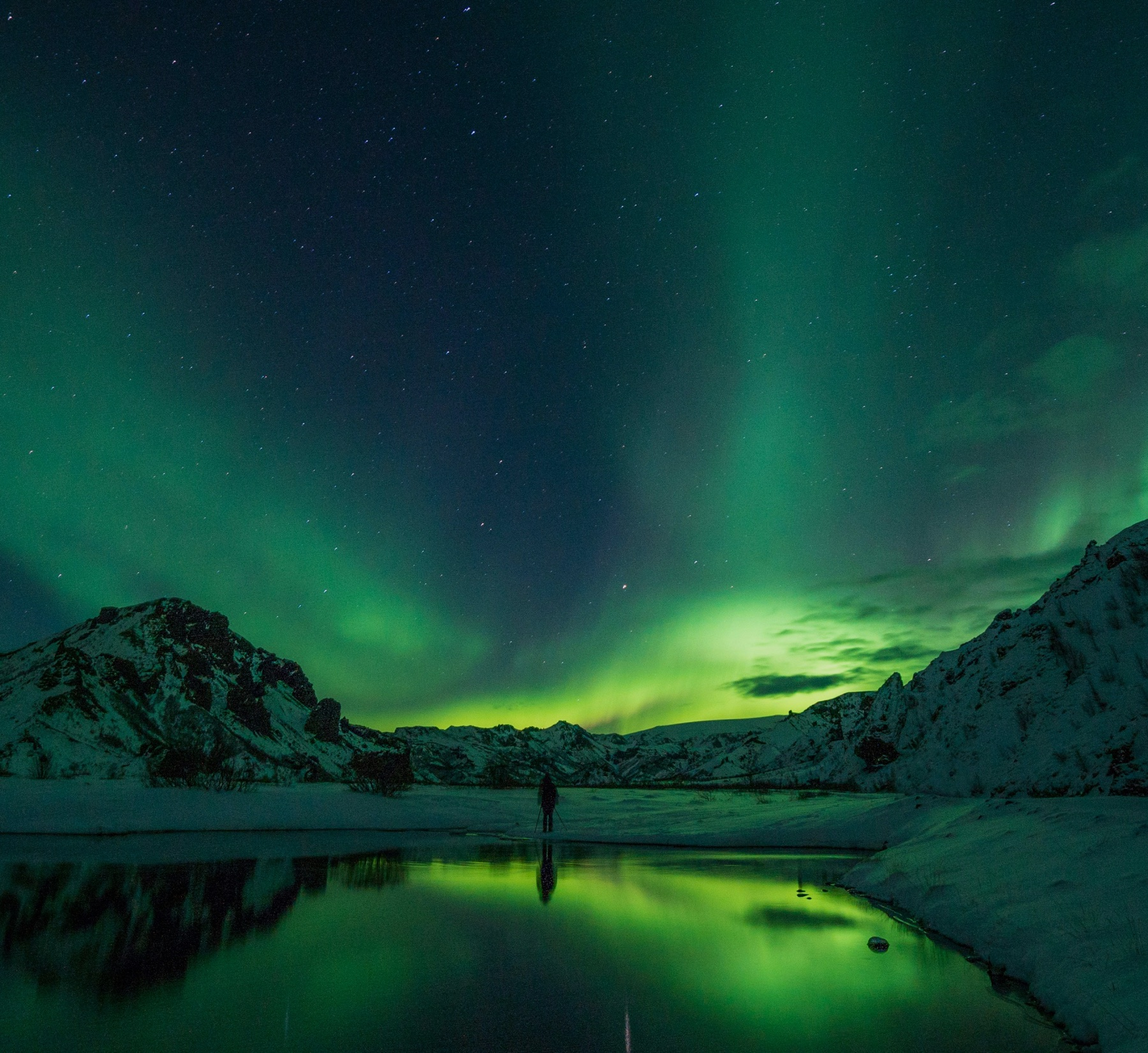
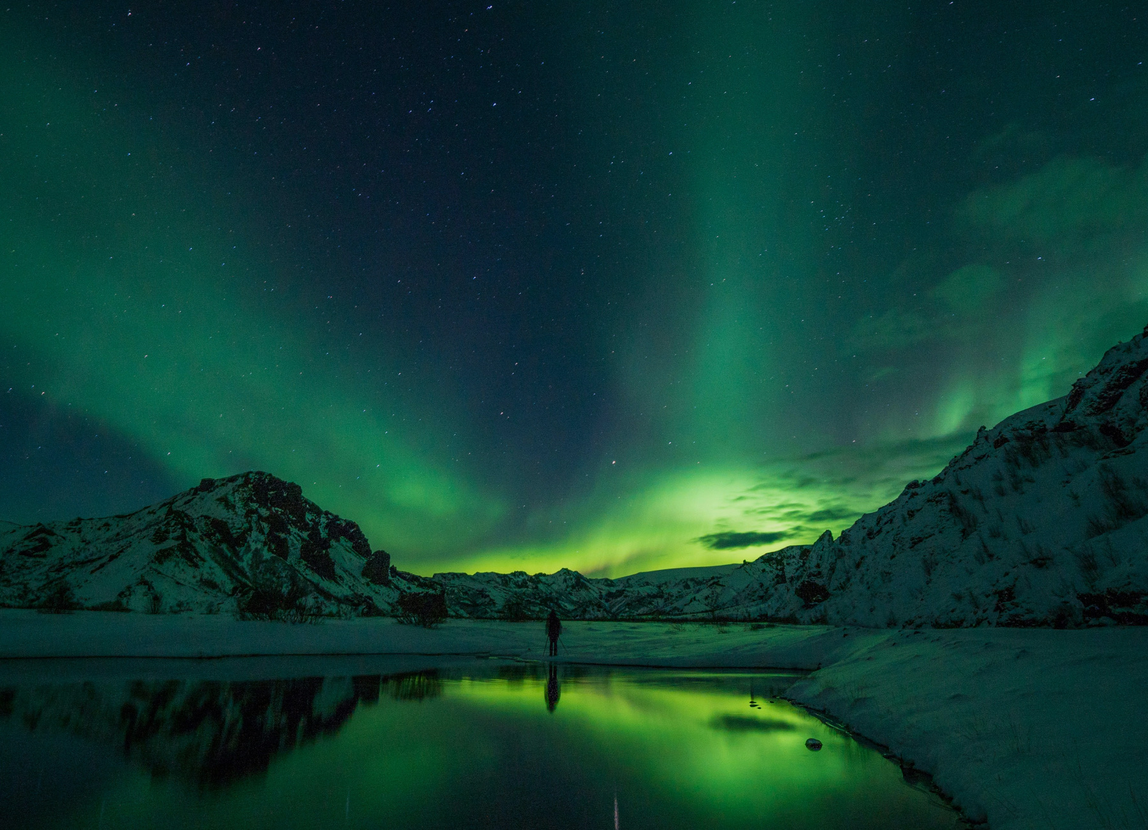
Match NORDLY and U+ ONE to the latest Figma, add list hover thumbnails
- NORDLY: shorter 900x651 hero photo, top block moved up like U+ ONE,
  tighter gap before the first screen
- U+ ONE: artboard aligned to its Figma position
- PROJECTS list: FEELD and EPI:LOG rows show a thumbnail on hover,
  NORDLY row uses the page's hero photo

diff --git a/index.html b/index.html
@@ -77,14 +77,14 @@
           <p class="list-sm">UI Design<br>UX Research<br>Visual Direction<br>Web Development</p>
         </div>
         <ol class="plist">
-          <li><div class="plist__row"><span class="plist__num">01</span><span class="plist__name">FEELD</span><span class="plist__cat">Visual Director</span></div></li>
+          <li><div class="plist__row" data-preview="assets/main/card-feeld.jpg"><span class="plist__num">01</span><span class="plist__name">FEELD</span><span class="plist__cat">Visual Director</span></div></li>
           <li><a class="plist__row" href="uplus.html" data-preview="assets/main/uplus-bg.jpg"><span class="plist__num">02</span><span class="plist__name">U+ ONE RENEWAL</span><span class="plist__cat">UXUI Redesign</span></a></li>
           <li><a class="plist__row" href="diptyque.html" data-preview="assets/main/card-diptyque.jpg"><span class="plist__num">03</span><span class="plist__name">DIPTYQUE:MEMORY</span><span class="plist__cat">Editorial Design</span></a></li>
           <li><a class="plist__row" href="storytelling.html" data-preview="assets/main/card-story.jpg"><span class="plist__num">04</span><span class="plist__name">10 STORYTELLING</span><span class="plist__cat">Poster Design</span></a></li>
-          <li><div class="plist__row"><span class="plist__num">05</span><span class="plist__name">EPI:LOG</span><span class="plist__cat">App UI Design</span></div></li>
+          <li><div class="plist__row" data-preview="assets/main/card-epilog.jpg"><span class="plist__num">05</span><span class="plist__name">EPI:LOG</span><span class="plist__cat">App UI Design</span></div></li>
           <li><div class="plist__row"><span class="plist__num">06</span><span class="plist__name">CAMPFLOW</span><span class="plist__cat">Cluster Design</span></div></li>
           <li><div class="plist__row"><span class="plist__num">07</span><span class="plist__name">NUDAKE</span><span class="plist__cat">Brand Campaign</span></div></li>
-          <li><a class="plist__row" href="nordly.html" data-preview="assets/main/nordly-bg.png"><span class="plist__num">08</span><span class="plist__name">NORDLY</span><span class="plist__cat">Web Design</span></a></li>
+          <li><a class="plist__row" href="nordly.html" data-preview="assets/nordly/hero.jpg"><span class="plist__num">08</span><span class="plist__name">NORDLY</span><span class="plist__cat">Web Design</span></a></li>
           <li><div class="plist__row"><span class="plist__num">09</span><span class="plist__name">SHAPE TYPOGRAPHY</span><span class="plist__cat">Typography</span></div></li>
         </ol>
       </div>

diff --git a/css/nordly.css b/css/nordly.css
@@ -4,7 +4,11 @@
    ========================================================= */
 
 /* top block follows the shared p-hero / p-meta / p-about pattern */
-.nordly .p-hero__big { top: 53.3rem; }
+/* frame sits 40px higher than the older detail pages, with a shorter 900 × 651 photo (same as U+ ONE) */
+.nordly .p-title { padding-top: 10.7rem; }
+.nordly .p-hero__img { margin-top: 2.65rem; aspect-ratio: 900 / 651; }
+.nordly .p-hero__big { top: 48.1rem; }
+.nordly .p-meta { margin-top: 6.6rem; }
 .nordly .p-meta .info:nth-child(1) { grid-column: 5 / span 2; }
 .nordly .p-meta .info:nth-child(2) { grid-column: 7 / span 2; }
 .nordly .p-about { margin-top: 11.5rem; }
@@ -18,7 +22,7 @@
 /* the tall mock-up is exported as four stacked JPEG slices; they meet without seams */
 .nd-web {
   margin-top: 7.6rem; /* 101px under the about copy in Figma; keep-all wrapping here adds one line (≈25px) */
-  margin-bottom: 1.45rem; /* 116px to the first screen in Figma (row-gap covers the other 101.5) */
+  margin-bottom: -4.45rem; /* 57px to the first screen in Figma (row-gap is 101.5) */
   background: #000;
 }
 .nd-web img {
@@ -39,6 +43,9 @@
 }
 
 @media (max-width: 767px) {
+  .nordly .p-title { padding-top: 11rem; }
+  .nordly .p-hero__img { margin-top: 2.4rem; }
+  .nordly .p-meta { margin-top: 5rem; }
   .nordly .p-hero__big { font-size: 4.6rem; }
   .nordly .p-meta .info:nth-child(1) { grid-column: 1; }
   .nordly .p-meta .info:nth-child(2) { grid-column: 2; }

diff --git a/nordly.html b/nordly.html
@@ -31,7 +31,7 @@
       </div>
       <div class="grid">
         <figure class="media p-hero__img">
-          <img decoding="async" src="assets/nordly/hero.jpg" width="1800" height="1652" alt="눈 덮인 산과 호수 위로 펼쳐진 초록빛 오로라">
+          <img decoding="async" src="assets/nordly/hero.jpg" width="1800" height="1302" alt="눈 덮인 산과 호수 위로 펼쳐진 초록빛 오로라">
         </figure>
       </div>
       <p class="p-hero__big" aria-hidden="true"><span>ORORA SERVICE</span><span>WEB DESIGN</span></p>

diff --git a/css/uplus.css b/css/uplus.css
@@ -38,7 +38,7 @@
 
 .up-ws {
   grid-column: 2 / span 10;
-  margin-top: 10.1rem;
+  margin-top: 7.8rem; /* about copy wraps one line longer than Figma (keep-all) */
   background: #1a1a1a;
 }
 .up-ws > img {
